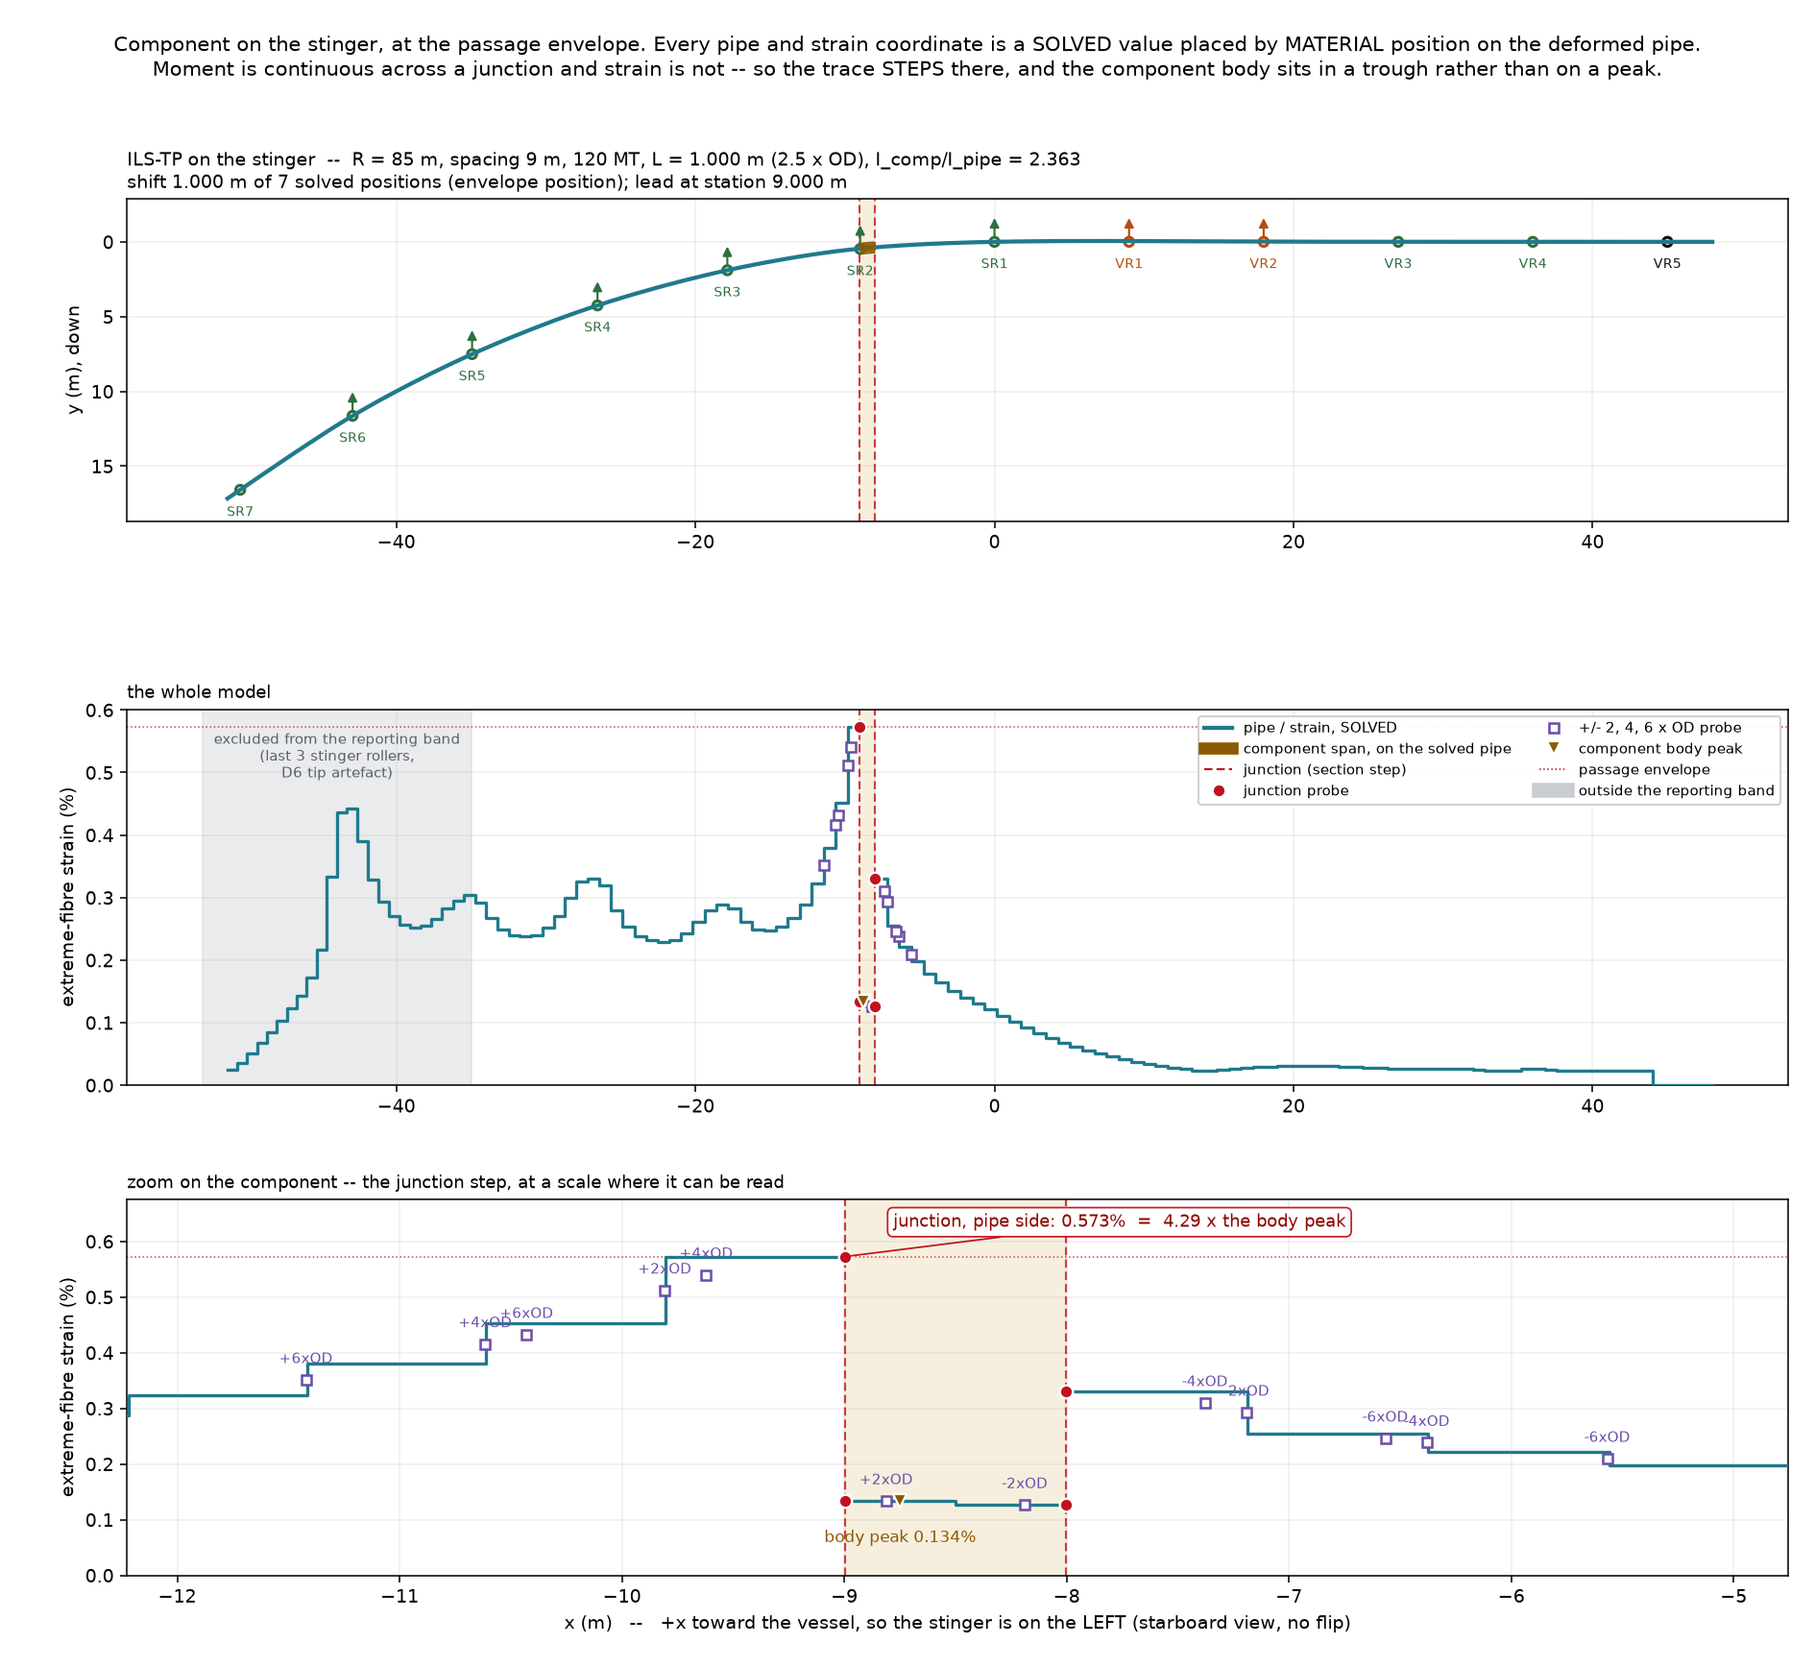
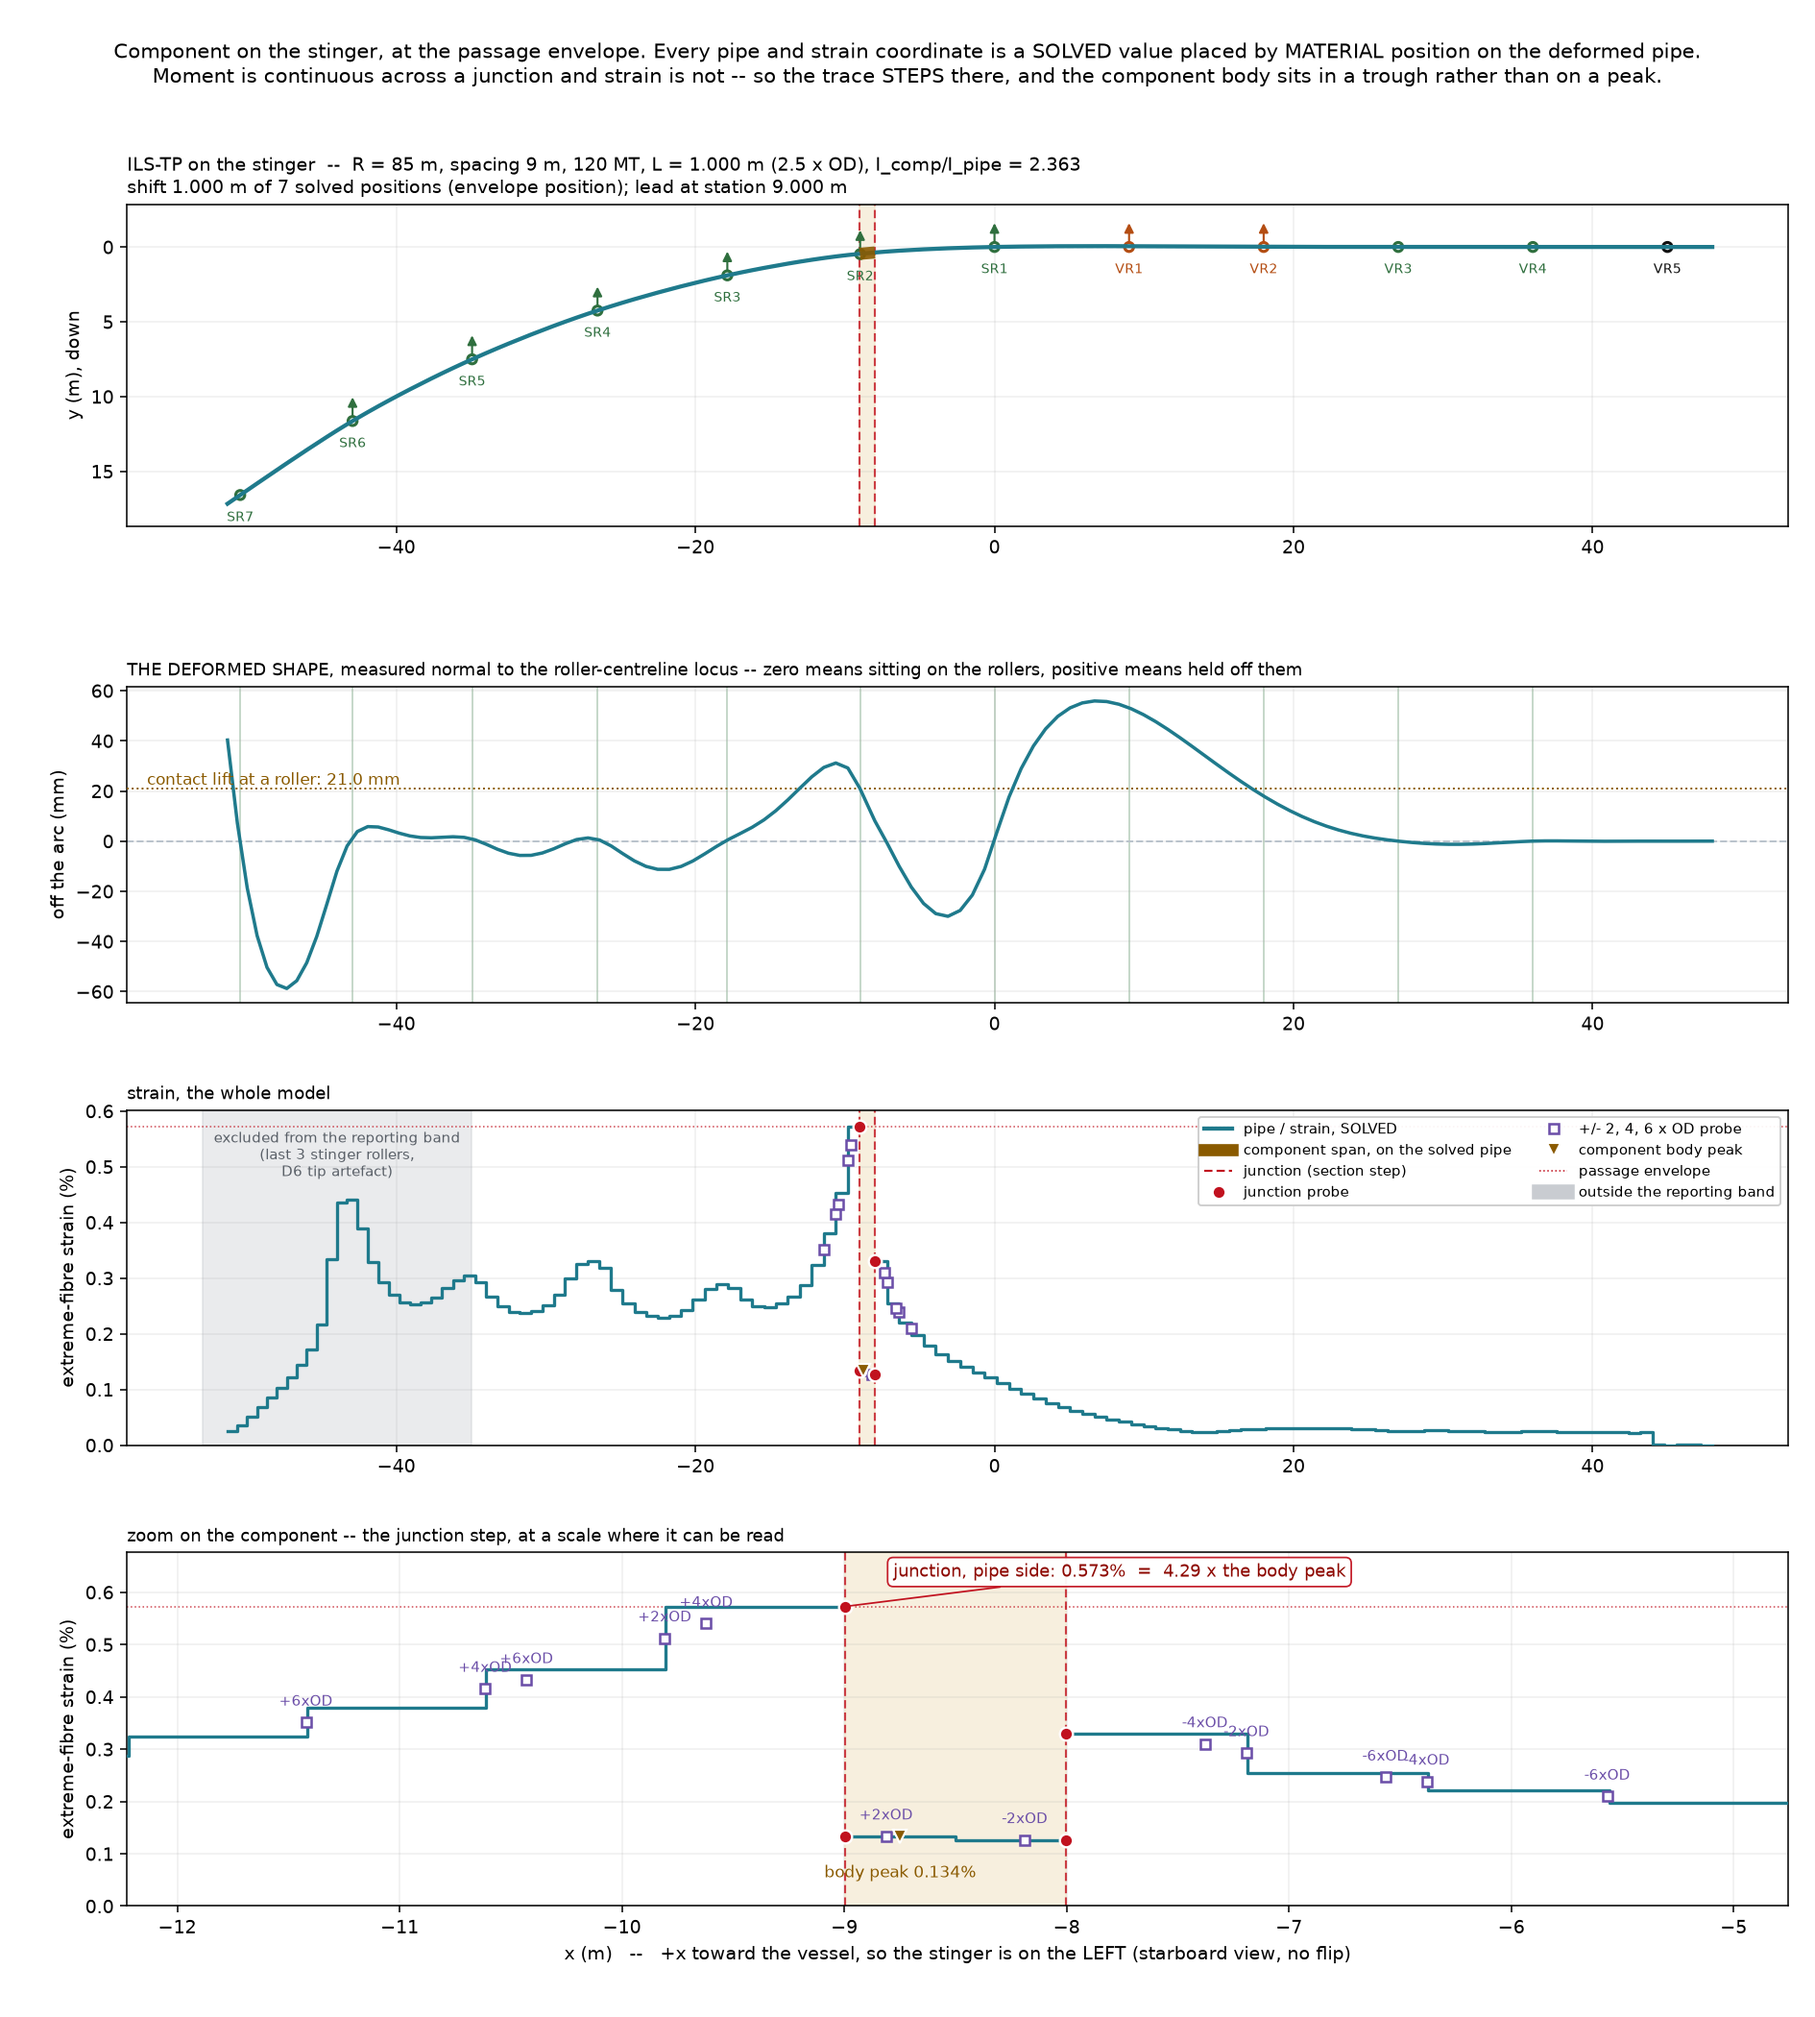
A deformed-shape panel, without which a shroud is invisible
`--archetype ILS-SH` drew a figure that could not answer the question asked
of it. GD-SH lifts the pipe 203 mm and adds no stiffness, so on a panel
spanning 20 m of stinger drop its entire effect is a third of a pixel: the
deformed shape was on the page and unreadable.

The new panel measures the solved pipe against the ROLLER-CENTRELINE LOCUS
rather than against the axes, so the lift is the whole signal instead of a
rounding error. At the envelope position (step 4, shift 2.438 m) it reads

    205 mm off the arc under the shroud   against a 203.2 mm contact lift
    -13 to +4 mm on bare stinger          sag between rollers
    -49 mm at the tip                     the free cantilever, excluded zone

The 1.4 mm between 204.6 and 203.2 is the pipe sagging between constrained
points, not an error in either.

The gap is taken along the path NORMAL at the station the material has
reached, not vertically -- on the arc the two differ by cos(theta), which is
20% at SR7. Both vectors are WORLD, and the dot product needs no frame
conversion, which is the one thing to be careful of here (L048).

THE SUBTITLES NOW MATCH THE CASE. They asserted that moment is continuous
across a junction and strain steps there -- true for GD-TP and GD-TT, and a
description of a figure not on the page for GD-SH, which has no section step
at all. A shroud's subtitle now says what it does instead: hold the pipe
203 mm off the rollers, which is what the new panel shows.
[…]

diff --git a/tools/plot_stinger.py b/tools/plot_stinger.py
@@ -82,6 +82,20 @@ JUNC_COL = '#c1121f'
 COMP_FILL = '#f2e3c4'
 
 
+def _rel(path):
+    """Path relative to the repo when it is inside it, else as given.
+
+    `relative_to` RAISES on a path outside the repo or on a relative one, so
+    a `--out` the caller typed relatively crashed the tool AFTER it had
+    already written the figure -- the worst kind of failure, since it looks
+    like nothing was produced.
+    """
+    try:
+        return Path(path).resolve().relative_to(REPO)
+    except ValueError:
+        return path
+
+
 def world(s, y, us, uy):
     """Model (s, y) + displacement -> world (x, y). See the module docstring."""
     return -(s + us), y + uy
@@ -262,6 +276,33 @@ def s_to_x(m, ms, U, shift=0.0):
     xv = np.array([world(at[i].s + shift, at[i].y,
                          U[dof(ms, i, 0)], U[dof(ms, i, 1)])[0] for i in ids])
     return lambda q: np.interp(q, sv, xv)
+
+
+def normal_gap(m, ms, U, scene, shift=0.0):
+    """[(world x, normal gap)] -- how far the solved pipe sits OFF the arc.
+
+    THE ONLY WAY A SHROUD IS VISIBLE. GD-SH lifts the pipe 203 mm and adds
+    no stiffness, so on a panel spanning 20 m of stinger drop its entire
+    effect is a third of a pixel. Measured against the roller-centreline
+    locus instead, the lift is the whole signal.
+
+    The gap is taken along the path NORMAL at the station the material has
+    reached, not vertically: on the arc the two differ by cos(theta), which
+    at SR7 is 20%. Both vectors are WORLD here -- `scene.path` speaks world
+    and so does `world()` -- so the dot product needs no frame conversion,
+    which is the one thing to be careful of (L048).
+    """
+    at = {n.index: n for n in m.nodes}
+    ids = sorted({i for e in m.elements if e.owner == 'pipeline'
+                  for i in (e.n1, e.n2)}, key=lambda i: at[i].s)
+    out = []
+    for i in ids:
+        s_sta = at[i].s + shift
+        px, py = world(s_sta, at[i].y, U[dof(ms, i, 0)], U[dof(ms, i, 1)])
+        ax, ay = scene.path.position(s_sta)
+        nx, ny = scene.path.normal(s_sta)
+        out.append((px, (px - ax) * nx + (py - ay) * ny))
+    return out
 
 
 def pipe_xy(m, ms, U, shift=0.0):
@@ -483,7 +524,7 @@ def plot(cases, out):
                  'uplift.', fontsize=11)
     fig.tight_layout()
     fig.savefig(out, dpi=140)
-    print(f'\nwrote {Path(out).relative_to(REPO)}')
+    print(f'\nwrote {_rel(out)}')
 
 
 def plot_component(c, out):
@@ -511,10 +552,11 @@ def plot_component(c, out):
     # where it sits or shows what happens there, never both. Panels 1 and 2
     # share x and answer "where"; panel 3 has its own window and answers
     # "what", at a scale where the junction step is legible.
-    fig, (ax, bx, cx) = plt.subplots(
-        3, 1, figsize=(13.5, 12.4),
-        gridspec_kw=dict(height_ratios=[1.25, 1.0, 1.0], hspace=0.28))
+    fig, (ax, dx, bx, cx) = plt.subplots(
+        4, 1, figsize=(13.5, 15.0),
+        gridspec_kw=dict(height_ratios=[1.15, 0.85, 0.9, 0.95], hspace=0.30))
     bx.sharex(ax)
+    dx.sharex(ax)
 
     # ---- panel 1: geometry ------------------------------------------------
     ss = np.linspace(min(t.s_arc for t in sc.stations),
@@ -582,7 +624,30 @@ def plot_component(c, out):
         f'({c["note"]}); lead at station {pos.s_lead:.3f} m',
         fontsize=10, loc='left')
 
-    # ---- panel 2: strain, on the same axis --------------------------------
+    # ---- panel 2: the deformed shape, where it can be seen ----------------
+    gaps = normal_gap(m, ms, U, sc, sh)
+    gx = [q[0] for q in gaps]
+    gy = [1000.0 * q[1] for q in gaps]
+    dx.plot(gx, gy, color='#1f7a8c', lw=1.8, zorder=5)
+    dx.axhline(0.0, color='#b9c2cb', lw=1.0, ls='--', zorder=2)
+    for st_ in sc.stations:
+        if st_.role is StationRole.CONTACT:
+            dx.axvline(st_.x, color='#2f6f3e', lw=0.8, alpha=0.35, zorder=1)
+    lift_mm = 1000.0 * max(
+        (t.lift for t in p.contacts), default=0.0)
+    if lift_mm > 1.0:
+        dx.axhline(lift_mm, color='#8a5a00', lw=1.0, ls=':', zorder=3)
+        dx.annotate(f'contact lift at a roller: {lift_mm:.1f} mm',
+                    (0.012, lift_mm), xycoords=('axes fraction', 'data'),
+                    ha='left', va='bottom', fontsize=8.5, color='#8a5a00',
+                    zorder=6)
+    dx.set_ylabel('off the arc (mm)')
+    dx.grid(alpha=0.2)
+    dx.set_title('THE DEFORMED SHAPE, measured normal to the roller-centreline '
+                 'locus -- zero means sitting on the rollers, positive means '
+                 'held off them', fontsize=9.5, loc='left')
+
+    # ---- panel 3: strain, on the same axis --------------------------------
     # THE TRACE IS BROKEN AT EVERY JUNCTION, and that is not decoration.
     # Strain STEPS across a section change -- the same moment on two section
     # moduli -- so a line drawn through it asserts a gradient the model does
@@ -677,8 +742,11 @@ def plot_component(c, out):
     cx.set_xlabel('x (m)   --   +x toward the vessel, so the stinger is on '
                   'the LEFT (starboard view, no flip)')
     cx.grid(alpha=0.2)
-    cx.set_title('zoom on the component -- the junction step, at a scale '
-                 'where it can be read', fontsize=9.5, loc='left')
+    cx.set_title(('zoom on the component -- the junction step, at a scale '
+                  'where it can be read') if juncs else
+                 ('zoom on the component -- no section step, so no strain '
+                  'discontinuity: the rise is the LIFT bending the pipe, '
+                  'not a change of section'), fontsize=9.5, loc='left')
     lead = [q for q in probes
             if q.offset_OD == 0.0 and q.side == 'pipe'
             and abs(q.s - max(j.s for j in juncs)) < 1e-6]
@@ -697,7 +765,7 @@ def plot_component(c, out):
     bx.set_ylabel('extreme-fibre strain (%)')
     bx.grid(alpha=0.2)
     bx.set_ylim(bottom=0.0)
-    bx.set_title('the whole model', fontsize=9.5, loc='left')
+    bx.set_title('strain, the whole model', fontsize=9.5, loc='left')
 
     handles = [plt.Line2D([], [], color='#1f7a8c', lw=2.2,
                           label='pipe / strain, SOLVED'),
@@ -719,15 +787,22 @@ def plot_component(c, out):
     bx.legend(handles=handles, fontsize=7.5, ncol=2, loc='upper right',
               framealpha=0.94)
 
+    # THE SUBTITLE MUST MATCH THE CASE. A shroud has no section step, so
+    # telling the reader the trace steps at a junction describes a figure
+    # that is not on the page -- and for GD-SH the lift is the whole story.
+    tail = ('Moment is continuous across a junction and strain is not -- so '
+            'the trace STEPS there, and the component body sits in a trough '
+            'rather than on a peak.') if juncs else (
+        f'This body steps NO section (I_comp/I_pipe = {ratio:.3f}): its whole '
+        f'effect is to hold the pipe {1000 * max((t.lift for t in p.contacts), default=0.0):.0f} mm '
+        f'off the rollers, which is what panel 2 shows.')
     fig.suptitle(
         'Component on the stinger, at the passage envelope. Every pipe and '
         'strain coordinate is a SOLVED value placed by MATERIAL position on '
-        'the deformed pipe.\nMoment is continuous across a junction and '
-        'strain is not -- so the trace STEPS there, and the component body '
-        'sits in a trough rather than on a peak.', fontsize=11)
+        'the deformed pipe.\n' + tail, fontsize=11)
     fig.subplots_adjust(left=0.07, right=0.985, top=0.925, bottom=0.055)
     fig.savefig(out, dpi=140)
-    print(f'\nwrote {Path(out).relative_to(REPO)}')
+    print(f'\nwrote {_rel(out)}')
 
 
 def plot_passage(c, out):
@@ -931,7 +1006,7 @@ def plot_passage(c, out):
         'is discontinuous there.', fontsize=11)
     fig.subplots_adjust(left=0.065, right=0.895, top=0.925, bottom=0.05)
     fig.savefig(out, dpi=140)
-    print(f'\nwrote {Path(out).relative_to(REPO)}')
+    print(f'\nwrote {_rel(out)}')
 
 
 def report_component(c):
